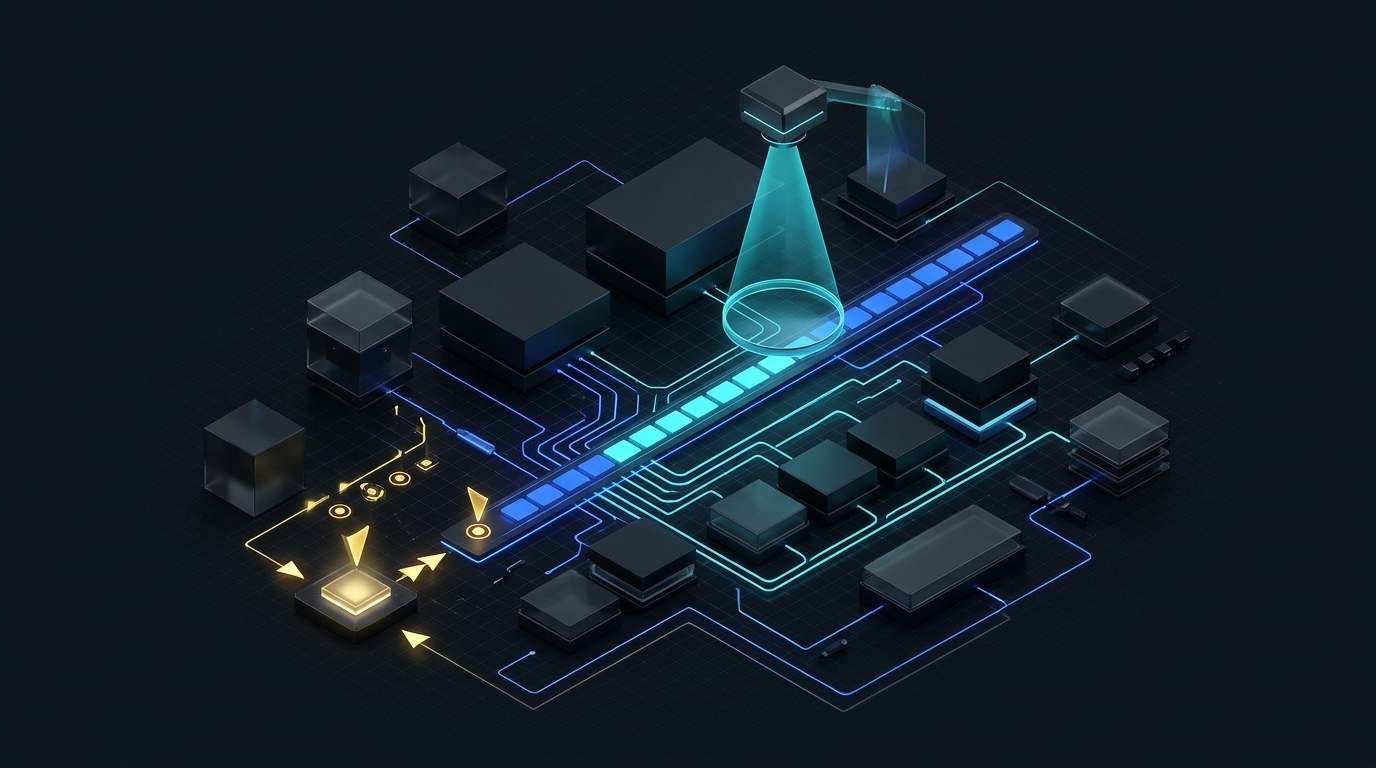
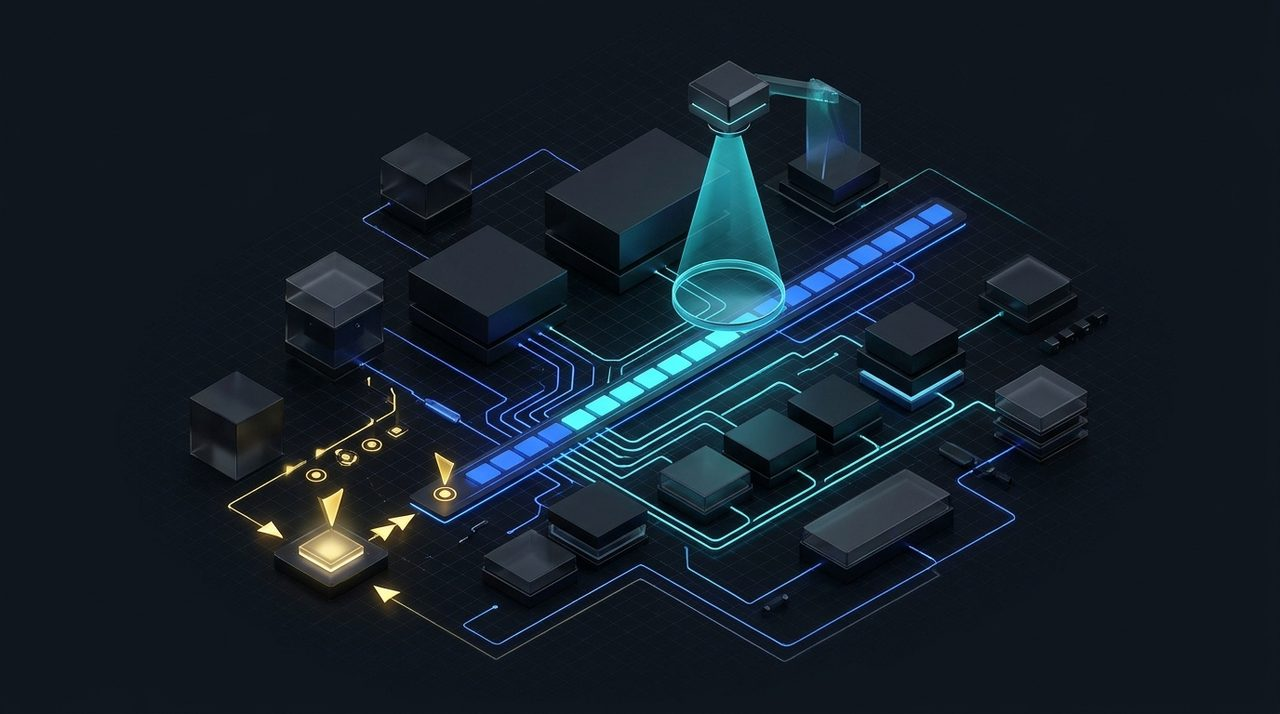
improve perfomance

Changed region(s): [[0.5312, 0.7395, 0.5625, 0.7703]]

diff --git a/src/components/Team.jsx b/src/components/Team.jsx
@@ -1,10 +1,10 @@
 import React from 'react';
-import babatundeImg from '../assets/images/team/babatunde-adeyemi.jpg';
-import chiomaImg from '../assets/images/team/chioma-okonkwo.jpg';
-import olumideImg from '../assets/images/team/olumide-bakare.jpg';
-import aminaImg from '../assets/images/team/amina-bello.jpg';
-import chineduImg from '../assets/images/team/chinedu-eze.jpg';
-import kayodeImg from '../assets/images/team/kayode-balogun.jpg';
+import babatundeImg from '../assets/images/team/babatunde-adeyemi.webp';
+import chiomaImg from '../assets/images/team/chioma-okonkwo.webp';
+import olumideImg from '../assets/images/team/olumide-bakare.webp';
+import aminaImg from '../assets/images/team/amina-bello.webp';
+import chineduImg from '../assets/images/team/chinedu-eze.webp';
+import kayodeImg from '../assets/images/team/kayode-balogun.webp';
 
 export function Team() {
   const teamMembers = [
@@ -84,6 +84,10 @@ export function Team() {
                 <img
                   src={member.image}
                   alt={member.name}
+                  loading="lazy"
+                  decoding="async"
+                  width="400"
+                  height="300"
                   className="w-full h-full object-cover object-top transform transition-transform duration-500 group-hover:scale-105"
                 />
                 <div className="absolute inset-0 bg-gradient-to-t from-[#101622] via-transparent to-transparent opacity-80" />

diff --git a/src/components/Features.jsx b/src/components/Features.jsx
@@ -1,10 +1,10 @@
 import React from 'react';
-import threatTopologyImg from '../assets/images/threat-topology.jpg';
-import apiPipelineImg from '../assets/images/solutions-api-pipeline.jpg';
-import vulnInfrastructureImg from '../assets/images/infrastructure-nodes.jpg';
-import incidentGraphImg from '../assets/images/solutions-incident-graph.jpg';
-import alertsAutomationImg from '../assets/images/solutions-alerts-automation.jpg';
-import analyticsImg from '../assets/images/solutions-analytics.jpg';
+import threatTopologyImg from '../assets/images/threat-topology.webp';
+import apiPipelineImg from '../assets/images/solutions-api-pipeline.webp';
+import vulnInfrastructureImg from '../assets/images/infrastructure-nodes.webp';
+import incidentGraphImg from '../assets/images/solutions-incident-graph.webp';
+import alertsAutomationImg from '../assets/images/solutions-alerts-automation.webp';
+import analyticsImg from '../assets/images/solutions-analytics.webp';
 
 export function Features() {
   const solutionsCards = [
@@ -83,6 +83,8 @@ export function Features() {
               <img
                 src={card.image}
                 alt={card.alt}
+                loading="lazy"
+                decoding="async"
                 className="absolute inset-0 w-full h-full object-cover transform transition-transform duration-700 group-hover:scale-105"
               />
 

diff --git a/index.html b/index.html
@@ -5,9 +5,12 @@
     <link rel="icon" type="image/svg+xml" href="/favicon.svg" />
     <link rel="manifest" href="/manifest.webmanifest" />
     <meta name="viewport" content="width=device-width, initial-scale=1.0" />
+    <meta name="theme-color" content="#080B12" />
     <title>SentinelX | AI-Powered Cybersecurity Intelligence</title>
     <meta name="description" content="Detect suspicious activity, investigate security threats and monitor your infrastructure with SentinelX, an AI-powered cybersecurity intelligence platform built for modern engineering teams." />
     <!-- Fonts: Space Grotesk (Headings), Inter (Body), JetBrains Mono (Code/Metadata) -->
+    <link rel="dns-prefetch" href="https://fonts.googleapis.com">
+    <link rel="dns-prefetch" href="https://fonts.gstatic.com">
     <link rel="preconnect" href="https://fonts.googleapis.com">
     <link rel="preconnect" href="https://fonts.gstatic.com" crossorigin>
     <link href="https://fonts.googleapis.com/css2?family=Inter:wght@300;400;500;600;700&family=JetBrains+Mono:wght@300;400;500;600;700&family=Space+Grotesk:wght@400;500;600;700&display=swap" rel="stylesheet">

diff --git a/src/components/HowItWorks.jsx b/src/components/HowItWorks.jsx
@@ -1,8 +1,8 @@
 import React from 'react';
-import connectImg from '../assets/images/architecture-isometric.jpg';
-import observeImg from '../assets/images/workflow-observe.jpg';
-import detectImg from '../assets/images/workflow-detect.jpg';
-import investigateImg from '../assets/images/workflow-investigate.jpg';
+import connectImg from '../assets/images/architecture-isometric.webp';
+import observeImg from '../assets/images/workflow-observe.webp';
+import detectImg from '../assets/images/workflow-detect.webp';
+import investigateImg from '../assets/images/workflow-investigate.webp';
 
 export function HowItWorks() {
   const workflowCards = [
@@ -57,6 +57,8 @@ export function HowItWorks() {
               <img
                 src={wf.image}
                 alt={wf.alt}
+                loading="lazy"
+                decoding="async"
                 className="absolute inset-0 w-full h-full object-cover transform transition-transform duration-700 group-hover:scale-105"
               />
 

diff --git a/src/components/Testimonials.jsx b/src/components/Testimonials.jsx
@@ -1,7 +1,7 @@
 import React from 'react';
-import dapoImg from '../assets/images/testimonials/dapo-adelegan.jpg';
-import sarahImg from '../assets/images/testimonials/sarah-jenkins.jpg';
-import marcusImg from '../assets/images/testimonials/marcus-vance.jpg';
+import dapoImg from '../assets/images/testimonials/dapo-adelegan.webp';
+import sarahImg from '../assets/images/testimonials/sarah-jenkins.webp';
+import marcusImg from '../assets/images/testimonials/marcus-vance.webp';
 
 export function Testimonials() {
   const testimonials = [
@@ -75,6 +75,10 @@ export function Testimonials() {
                 <img
                   src={t.image}
                   alt={t.name}
+                  loading="lazy"
+                  decoding="async"
+                  width="48"
+                  height="48"
                   className="w-12 h-12 rounded-full object-cover border border-[#243044] group-hover:border-[#3978E8] transition-colors shrink-0"
                 />
                 <div>

diff --git a/src/components/IntelligenceEngine.jsx b/src/components/IntelligenceEngine.jsx
@@ -1,6 +1,6 @@
 import React, { useState } from 'react';
 import { INTELLIGENCE_LAYERS, NETWORK_NODES } from '../data/content';
-import threatTopologyImg from '../assets/images/threat-topology.jpg';
+import threatTopologyImg from '../assets/images/threat-topology.webp';
 import { 
   Network, 
   Share2, 
@@ -107,6 +107,8 @@ export function IntelligenceEngine() {
                 <img
                   src={threatTopologyImg}
                   alt="SentinelX Threat Topology"
+                  loading="lazy"
+                  decoding="async"
                   className="w-full h-full object-cover filter contrast-125"
                 />
               </div>
